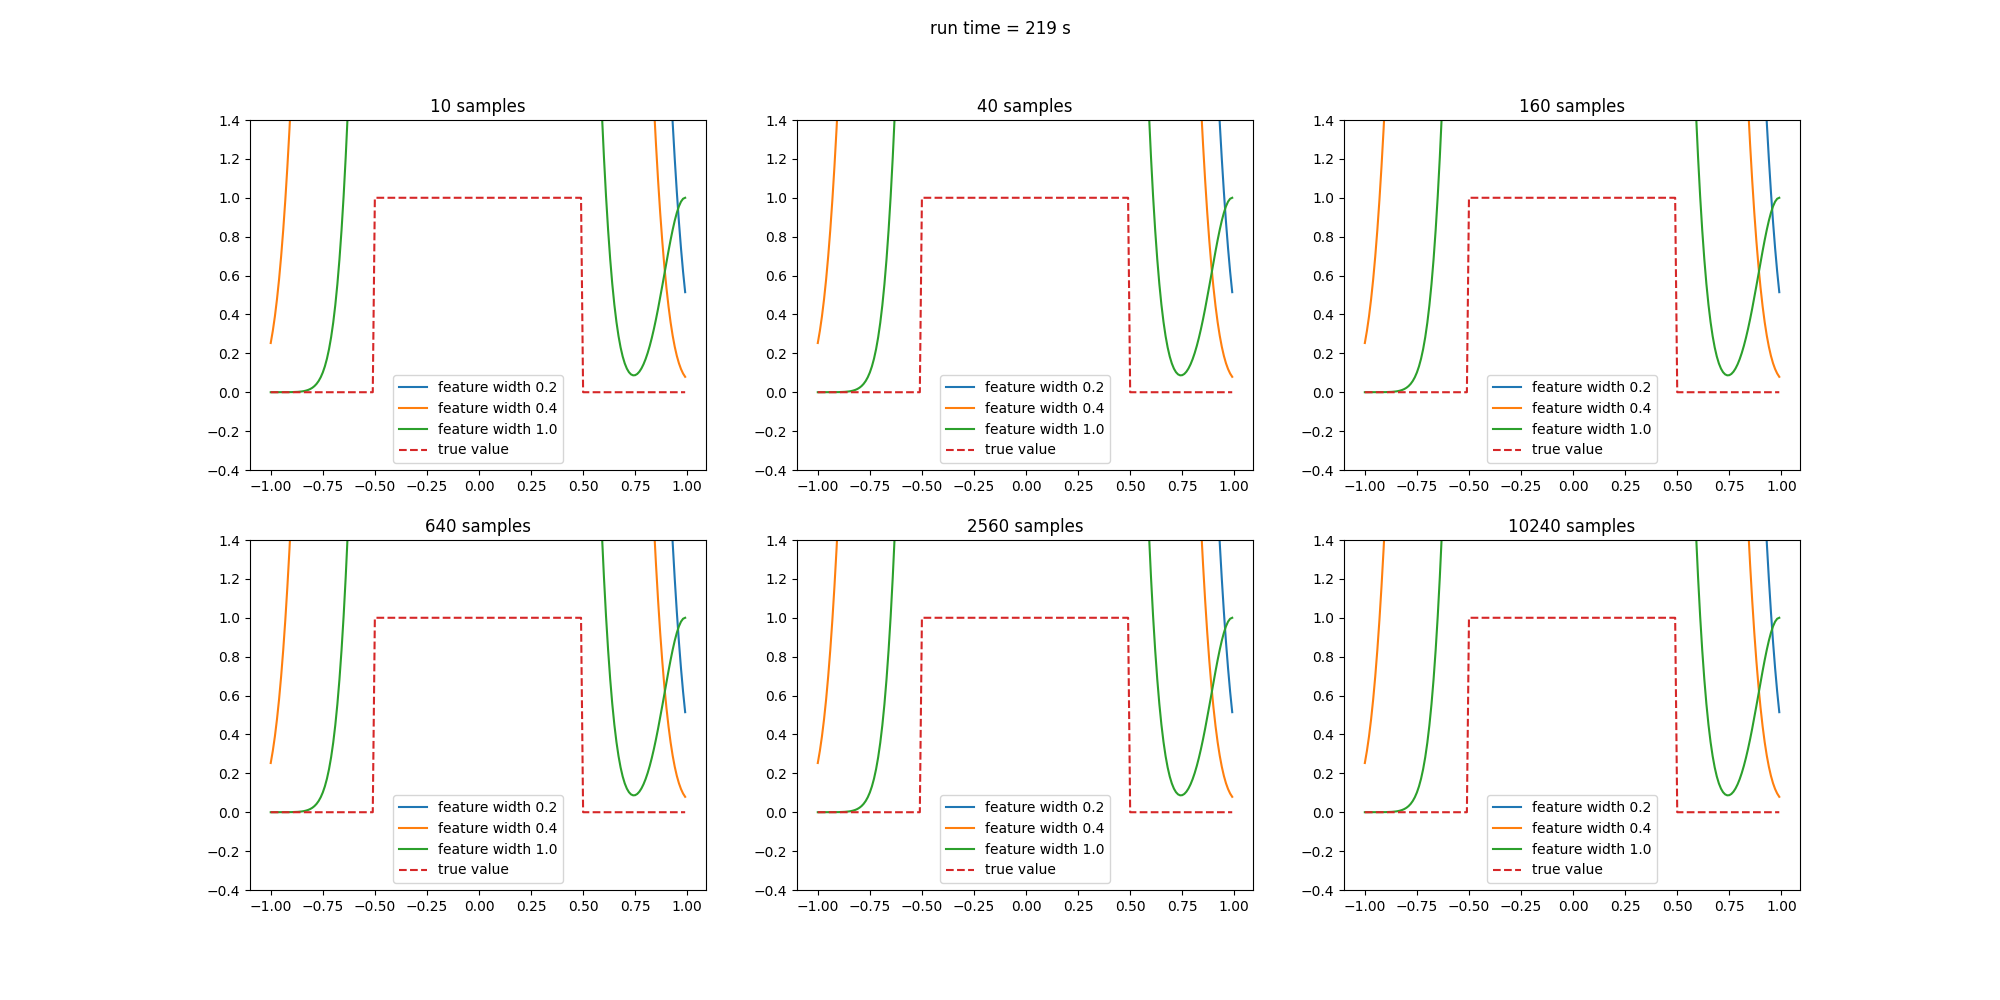
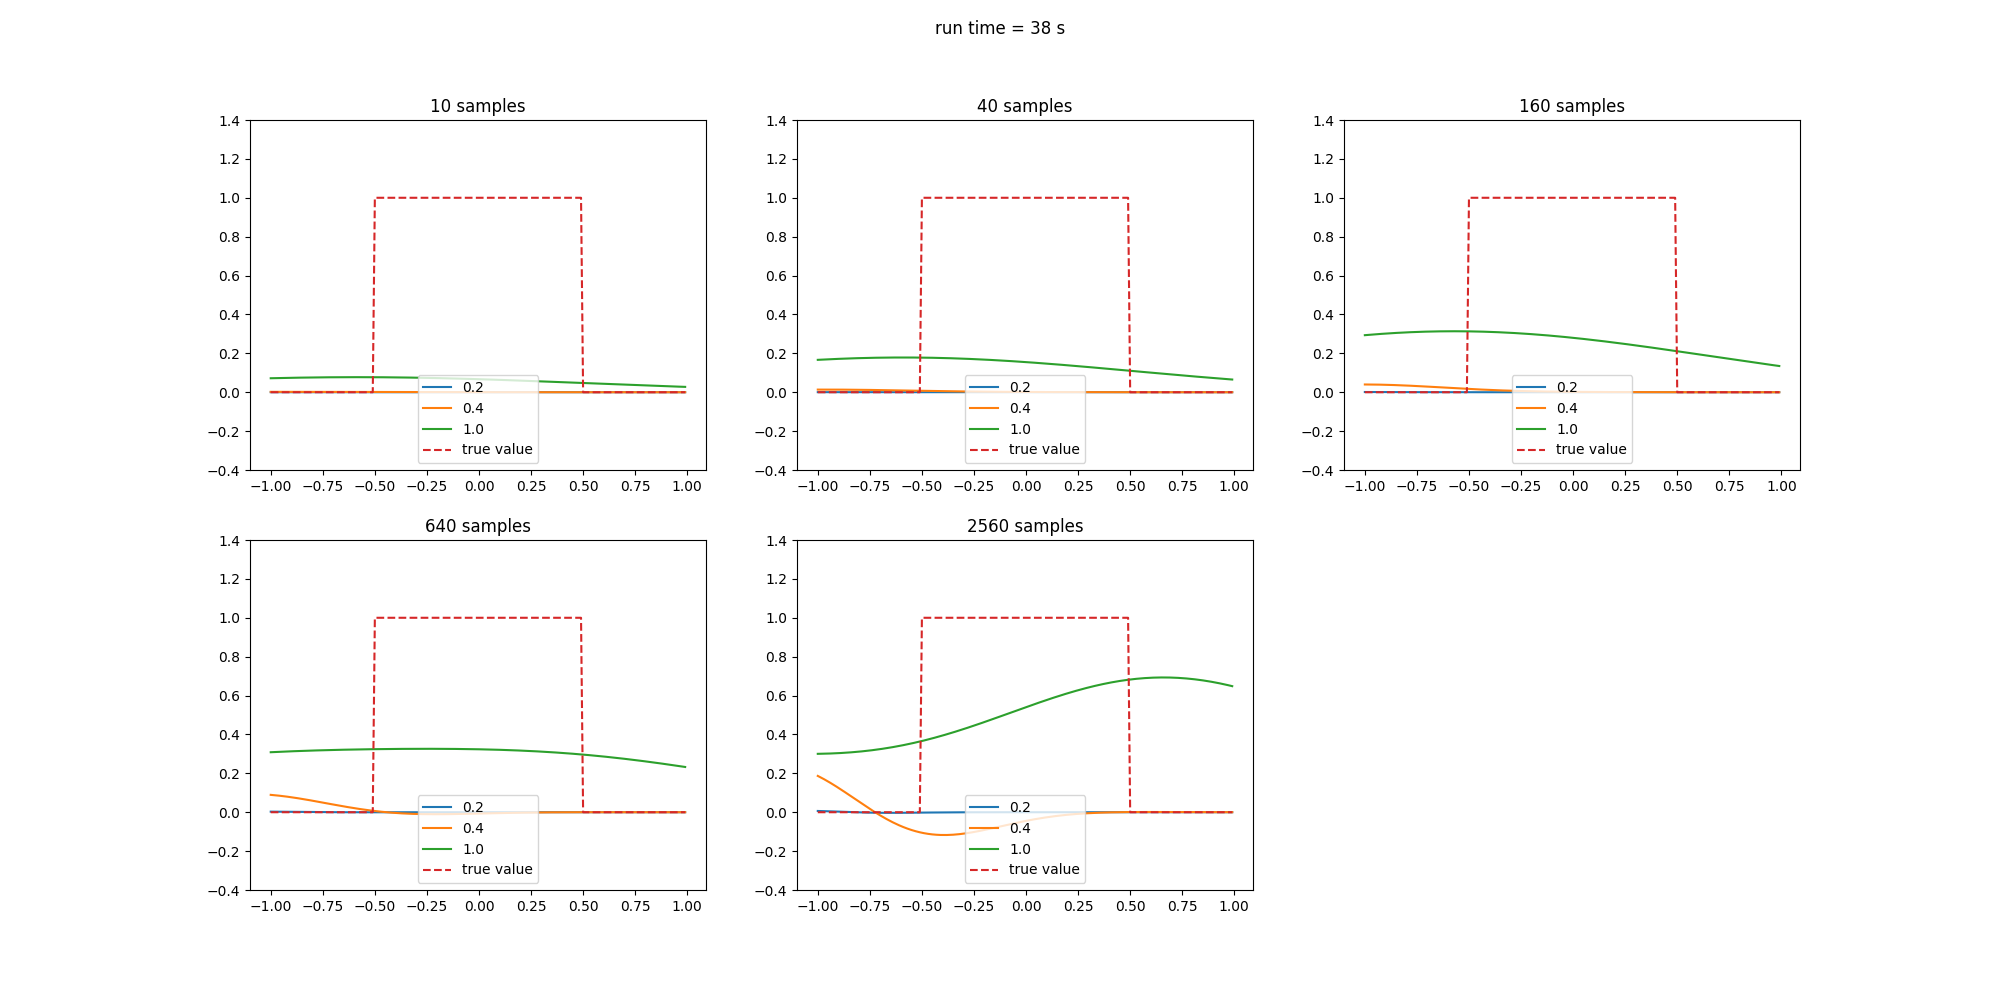
RBF

diff --git a/Part II/CH09/coarse_coding_RBF.py b/Part II/CH09/coarse_coding_RBF.py
@@ -1,0 +1,116 @@
+"""Figure 9.8, RBF"""
+import bisect
+
+import numpy as np
+import time
+import matplotlib.pyplot as plt
+from tqdm import trange, tqdm
+
+
+class CoarseCoding:
+    def __init__(self):
+        self.interval = 2
+        self.n_features = 50
+        self.high = 1
+        self.low = 0
+        self.step_size = 0.2 / self.n_features
+        self.weights = np.zeros(self.n_features)
+
+        self.left_bound = 0
+        self.right_bound = 0
+        self.feature_width = 0
+        self.features = []
+        self.pos = 0
+        self.std_dev = 1
+
+    def reset(self):
+        self.weights = np.zeros(self.n_features)
+        self.left_bound = 0
+        self.right_bound = 0
+        self.feature_width = 0
+        self.features = []
+        self.pos = 0
+
+    def init_coarse(self):
+        self.left_bound = - self.interval / 2
+        self.right_bound = self.interval / 2
+
+    def get_sample(self, n):
+        samples = []
+        for _ in range(n):
+            pos = np.random.random() * self.interval + self.left_bound
+            if self.left_bound / 2 <= pos < self.right_bound / 2:
+                samples.append([pos, self.high])
+            else:
+                samples.append([pos, self.low])
+        return samples
+
+    def init_value_func(self):
+        self.init_coarse()
+        feature_step = self.interval / (self.n_features - 1)
+        for i in range(self.n_features):
+            self.features.append(self.left_bound + i * feature_step)
+
+    def get_func_value(self, x=None):
+        if x is not None:
+            self.pos = x
+        value = 0
+        for i in range(self.n_features):
+            value += np.exp(- np.power(self.pos - self.features[i], 2) / (2 * np.power(self.std_dev, 2))) \
+                     * self.weights[i]
+        print(value)
+        return value
+
+    def update_func_values(self, change):
+        for i in range(self.n_features):
+            change *= np.exp(- np.power(self.pos - self.features[i], 2) / (2 * np.power(self.std_dev, 2)))
+            self.weights[i] += change
+
+    def approximate(self, n):
+        self.reset()
+        self.init_value_func()
+        samples = self.get_sample(n)
+        for x, y in samples:
+            self.pos = x
+            change = self.step_size * (y - self.get_func_value())
+            self.update_func_values(change)
+
+    def figure_9_8(self):
+        start_time = time.time()
+
+        repeat = 10
+        num_of_samples = [10, 40, 160, 640, 2560]
+        feature_widths = [0.2, 0.4, 1.0]
+        plt.figure(figsize=(20, 10))
+        for index, num_of_sample in enumerate(num_of_samples):
+            plt.subplot(2, 3, index + 1)
+            plt.title('%d samples' % num_of_sample)
+            for feature_width in tqdm(feature_widths):
+                self.init_coarse()
+                self.std_dev = feature_width
+                axis_x = np.arange(self.left_bound, self.right_bound, 0.01)
+                values = np.zeros(axis_x.shape)
+                for _ in range(repeat):
+                    self.approximate(num_of_sample)
+                    values += [self.get_func_value(x) for x in axis_x]
+                values /= repeat
+                plt.plot(axis_x, values, label=str(feature_width))
+            axis_x = np.arange(self.left_bound, self.right_bound, 0.01)
+            true_y = []
+            for x in axis_x:
+                if -0.5 <= x < 0.5:
+                    true_y.append(1)
+                else:
+                    true_y.append(0)
+            plt.plot(axis_x, true_y, '--', label='true value')
+            plt.ylim(-0.4, 1.4)
+            plt.legend(loc='lower center')
+
+        plt.suptitle(f'run time = {int(time.time() - start_time)} s')
+        plt.savefig('images/figure_9_8_RBF.png')
+        plt.close()
+
+
+if __name__ == '__main__':
+    a = CoarseCoding()
+    a.figure_9_8()

diff --git a/Part II/CH09/coarse_coding.py b/Part II/CH09/coarse_coding.py
@@ -1,4 +1,4 @@
-"""Figure 9.8"""
+"""Figure 9.8, RBF not in function"""
 import bisect
 
 import numpy as np
@@ -81,7 +81,7 @@ class CoarseCoding:
 
         if self.rbf:
             value = 0
-            for i in range(self.n_features):
+            for i in self.active_features:
                 value += np.exp(- np.power(self.pos - self.features[i][2], 2) / (2 * np.power(self.std_dev, 2)))
             return value
         else:
@@ -91,9 +91,9 @@ class CoarseCoding:
         change /= len(self.active_features)
 
         if self.rbf:
-            for i in range(self.n_features):
+            for i in self.active_features:
                 change *= np.exp(- np.power(self.pos - self.features[i][2], 2) / (2 * np.power(self.std_dev, 2)))
-                change *= - (self.pos - self.features[i][2]) / np.power(self.std_dev, 2)
+                # change *= - (self.pos - self.features[i][2]) / np.power(self.std_dev, 2)
                 self.weights[i] += change
         else:
             for i in self.active_features:
@@ -121,6 +121,7 @@ class CoarseCoding:
             plt.title('%d samples' % num_of_sample)
             for feature_width in tqdm(feature_widths):
                 self.init_coarse(feature_width)
+                self.std_dev = feature_width / 5
                 axis_x = np.arange(self.left_bound, self.right_bound, 0.01)
                 values = np.zeros(axis_x.shape)
                 for _ in range(repeat):
@@ -136,7 +137,7 @@ class CoarseCoding:
                 else:
                     true_y.append(0)
             plt.plot(axis_x, true_y, '--', label='true value')
-            plt.ylim(-0.4, 1.4)
+            # plt.ylim(-0.4, 1.4)
             plt.legend(loc='lower center')
 
         plt.suptitle(f'run time = {int(time.time() - start_time)} s')
@@ -148,5 +149,5 @@ class CoarseCoding:
 
 
 if __name__ == '__main__':
-    a = CoarseCoding(rbf=True)
+    a = CoarseCoding()
     a.figure_9_8()
